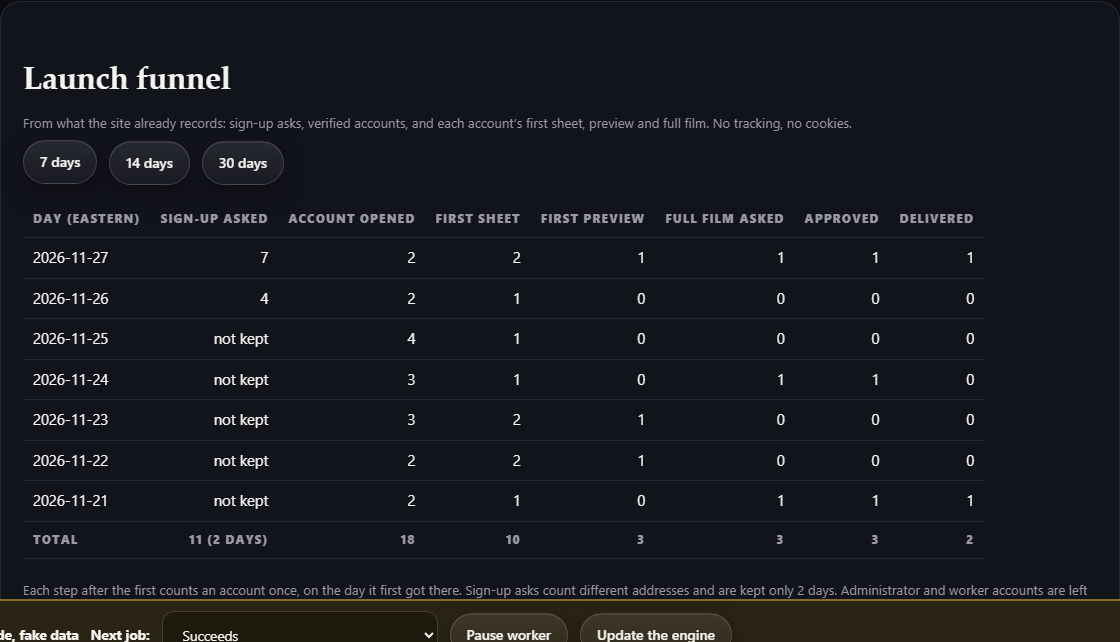
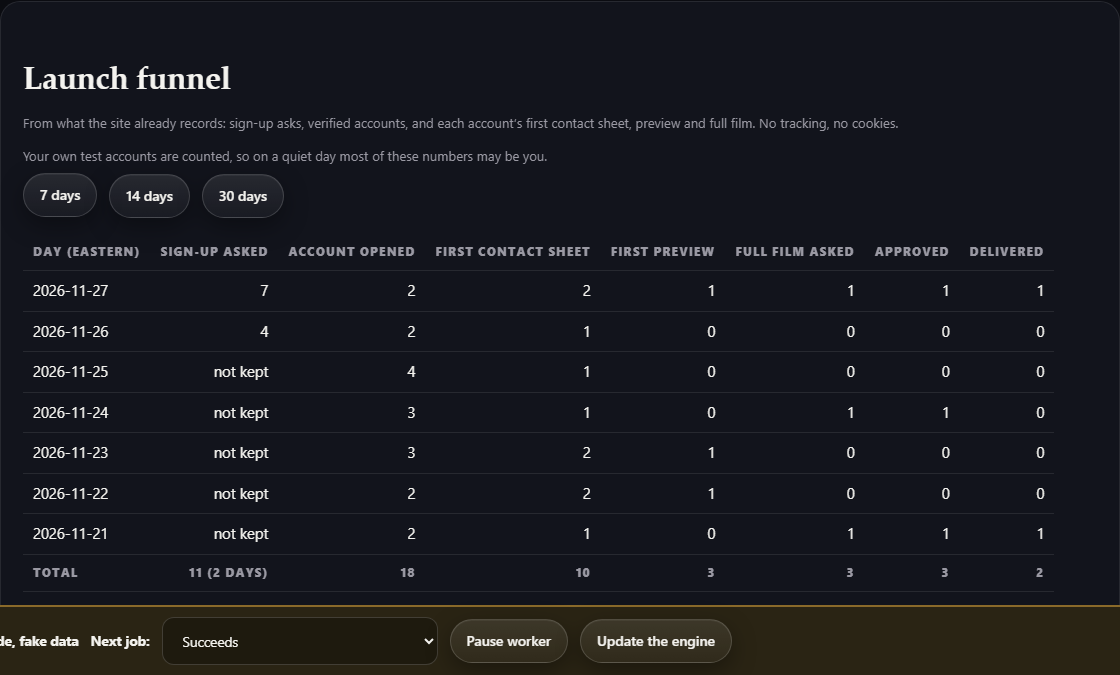
Launch funnel: fold RENDERER's MEDIUM (delivered = a real delivery) and the LOWs of RENDERER, WEB and FACES
film_delivered now counts an account's first render_deliveries row (made only when a final video was
handed over; a render that finishes with no film is refunded and gets none), or for a direct final
(no order) the first final_video file of a COMPLETE job. Tests: a complete job with no delivery row is
asked and approved, not delivered; a direct final is delivered only once its film exists, and not
when the job did not complete. Step 80 row 5 checks the delivery read (rows 2 to 5 STOP before).
Must-fail 6 of 6. Page: 'First contact sheet'; a line above the table that Ryan's own test accounts
are counted; 'Delivered means the film was handed over'; focus returns to the pressed day button.
SQL: test_launch_funnel 9/9, ops_readiness, pipe1_orders, film_bundle green; node 2505/0/12; mock walk OK.

diff --git a/assets/app-library.js b/assets/app-library.js
@@ -571,7 +571,7 @@
           h('p', { class: 'form-note' }, 'Visits are counted each time; every other step counts an account once, the first time it happens. This page only reads.'));
       }
       // The launch funnel (BUILDER 11-27; behind launchFunnel; SQL 20261127000200): one row a day from what the site already records. A sign-up ask is kept 2 days (Privacy), so older days say 'not kept', never 0.
-      const LAUNCH_COLS = [['signups_asked', 'Sign-up asked'], ['accounts_opened', 'Account opened'], ['first_sheet', 'First sheet'], ['first_preview', 'First preview'],
+      const LAUNCH_COLS = [['signups_asked', 'Sign-up asked'], ['accounts_opened', 'Account opened'], ['first_sheet', 'First contact sheet'], ['first_preview', 'First preview'],
         ['film_asked', 'Full film asked'], ['film_approved', 'Approved'], ['film_delivered', 'Delivered']];
       const launchOut = h('div', {}, h('p', { class: 'form-note' }, 'Loading\u2026'));
       const launchError = errorLine();
@@ -584,14 +584,15 @@
         rows = Array.isArray(rows) ? rows.slice(0, 60) : [];
         const total = k => rows.reduce((s, r) => s + (Number(r[k]) || 0), 0);
         launchOut.replaceChildren(
-          h('p', {}, [7, 14, 30].map(n => h('button', { class: `button secondary small${n === launchDays ? ' is-chosen' : ''}`, type: 'button', 'aria-pressed': String(n === launchDays), onclick: async () => { launchDays = n; await loadLaunch(); } }, `${n} days`)), ' '),
+          h('p', {}, [7, 14, 30].map(n => h('button', { class: `button secondary small${n === launchDays ? ' is-chosen' : ''}`, type: 'button', 'aria-pressed': String(n === launchDays), onclick: async () => { launchDays = n; await loadLaunch(); launchOut.querySelector(`[data-days="${n}"]`)?.focus(); }, 'data-days': String(n) }, `${n} days`)), ' '),
           h('table', { class: 'admin-table funnel-days launch-funnel funnel-weeks', tabindex: '0', 'aria-label': 'Launch funnel by day (scrolls sideways on a narrow screen)' }, h('thead', {}, h('tr', {}, h('th', {}, 'Day (Eastern)'), LAUNCH_COLS.map(([, label]) => h('th', { class: 'num' }, label)))),
             h('tbody', {}, rows.map(r => h('tr', {}, h('td', {}, String(r.day || '').slice(0, 10)), LAUNCH_COLS.map(([k]) => h('td', { class: 'num' }, cell(r[k]))))),
               h('tr', { class: 'funnel-total' }, h('th', {}, 'Total'), LAUNCH_COLS.map(([k]) => h('th', { class: 'num' }, k === 'signups_asked' ? `${total(k)} (2 days)` : String(total(k))))))),
-          h('p', { class: 'form-note' }, 'Each step after the first counts an account once, on the day it first got there. Sign-up asks count different addresses and are kept only 2 days. Administrator and worker accounts are left out; your own test accounts are counted. This page only reads.'));
+          h('p', { class: 'form-note' }, 'Each step after the first counts an account once, on the day it first got there. Sign-up asks count different addresses and are kept only 2 days. Delivered means the film was handed over. Administrator and worker accounts are left out; your own test accounts are counted. This page only reads.'));
       }
       const launchSection = launchFunnelOn() ? h('section', { class: 'account-section', 'aria-labelledby': 'launch-funnel-h' }, h('h2', { id: 'launch-funnel-h' }, 'Launch funnel'),
-        h('p', { class: 'form-note' }, 'From what the site already records: sign-up asks, verified accounts, and each account\u2019s first sheet, preview and full film. No tracking, no cookies.'), launchOut, launchError) : null;
+        h('p', { class: 'form-note' }, 'From what the site already records: sign-up asks, verified accounts, and each account\u2019s first contact sheet, preview and full film. No tracking, no cookies.'),
+        h('p', { class: 'form-note' }, 'Your own test accounts are counted, so on a quiet day most of these numbers may be you.'), launchOut, launchError) : null;
       if (launchSection) await loadLaunch();
       if (funnelOn()) await load();
       return [h('a', { href: '#/', class: 'back' }, '\u2190 All projects'), h('h1', { tabindex: '-1' }, 'Funnel by day'),

diff --git a/supabase/tests/test_launch_funnel.py b/supabase/tests/test_launch_funnel.py
@@ -71,6 +71,20 @@ class LaunchFunnel(p1.Orders):
         self.full_film("funnel-0002")
         self.assertEqual(self.totals(self.funnel()), {c: 1 for c in COLS[1:]}, "a second film by the same account counts nothing again")
 
+    def test_a_render_that_finishes_with_no_film_is_asked_and_approved_but_not_delivered(self):
+        oid = self.order("funnel-0009")
+        self.work_through_preview(oid)
+        sid = self.admin("select id from render_stages where order_id = %s and stage = 'final_render'", oid)
+        self.db.as_(RYAN).one("select state from admin_render_decide(%s, true, 'ok')", sid)
+        final = self.claim()
+        self.work(final, ["final_video", "thumbnail", "receipt"])
+        # The delivery step can still fail after the job completes (pipe1 order_advance: the final_video gone, so a refund, the order failed with delivery_failed and NO
+        # render_deliveries row; RENDERER 11-27). The worker cannot report a final without its film, so the end state is made here directly: the job complete, no delivery row.
+        self.admin("delete from render_deliveries where order_id = %s returning 1", oid)
+        self.assertEqual(self.admin("select state::text from jobs where id = %s", final), "complete")
+        t = self.funnel()[self.today()]
+        self.assertEqual((t["film_asked"], t["film_approved"], t["film_delivered"]), (1, 1, 0), "finished is not delivered")
+
     def test_a_declined_film_is_asked_but_never_approved_or_delivered(self):
         self.full_film("funnel-0003", approve=False)
         t = self.funnel()[self.today()]
@@ -92,6 +106,11 @@ class LaunchFunnel(p1.Orders):
         self.assertEqual(f[self.ago(2)]["first_sheet"], 1)
         self.assertEqual(f[self.today()]["first_preview"], 1)
         self.assertEqual((f[self.today()]["film_asked"], f[self.today()]["film_approved"]), (1, 1))
+        self.assertEqual(f[self.today()]["film_delivered"], 0, "a direct final is delivered only once its film exists")
+        self.work(self.claim(), ["final_video", "thumbnail", "receipt"])
+        self.assertEqual(self.funnel()[self.today()]["film_delivered"], 1, "a direct final with its film is delivered")
+        self.admin("update jobs set state = 'failed' where id = %s returning 1", final)
+        self.assertEqual(self.funnel()[self.today()]["film_delivered"], 0, "a film file on a job that did not complete is not a delivery")
 
     # ---------------------------------------------------------------- who counts
     def test_administrators_and_workers_are_left_out_and_another_account_counts_on_its_own(self):
@@ -143,7 +162,7 @@ class LaunchFunnel(p1.Orders):
         self.ddl("revoke execute on function public.admin_launch_funnel(integer) from anon")
         self.ddl(RB.read_text(encoding="utf-8"))
         rows = self.step()
-        self.assertEqual([r[2] for r in rows], [False, False, False, False, True], rows)
+        self.assertEqual([r[2] for r in rows], [False, False, False, False, False], rows)
         self.assertIsNone(self.admin("select to_regprocedure('public.admin_launch_funnel(integer)')"), "the rollback removed it")
 
     def test_step_80_is_one_statement_with_no_semicolon_in_a_string_and_no_address(self):
